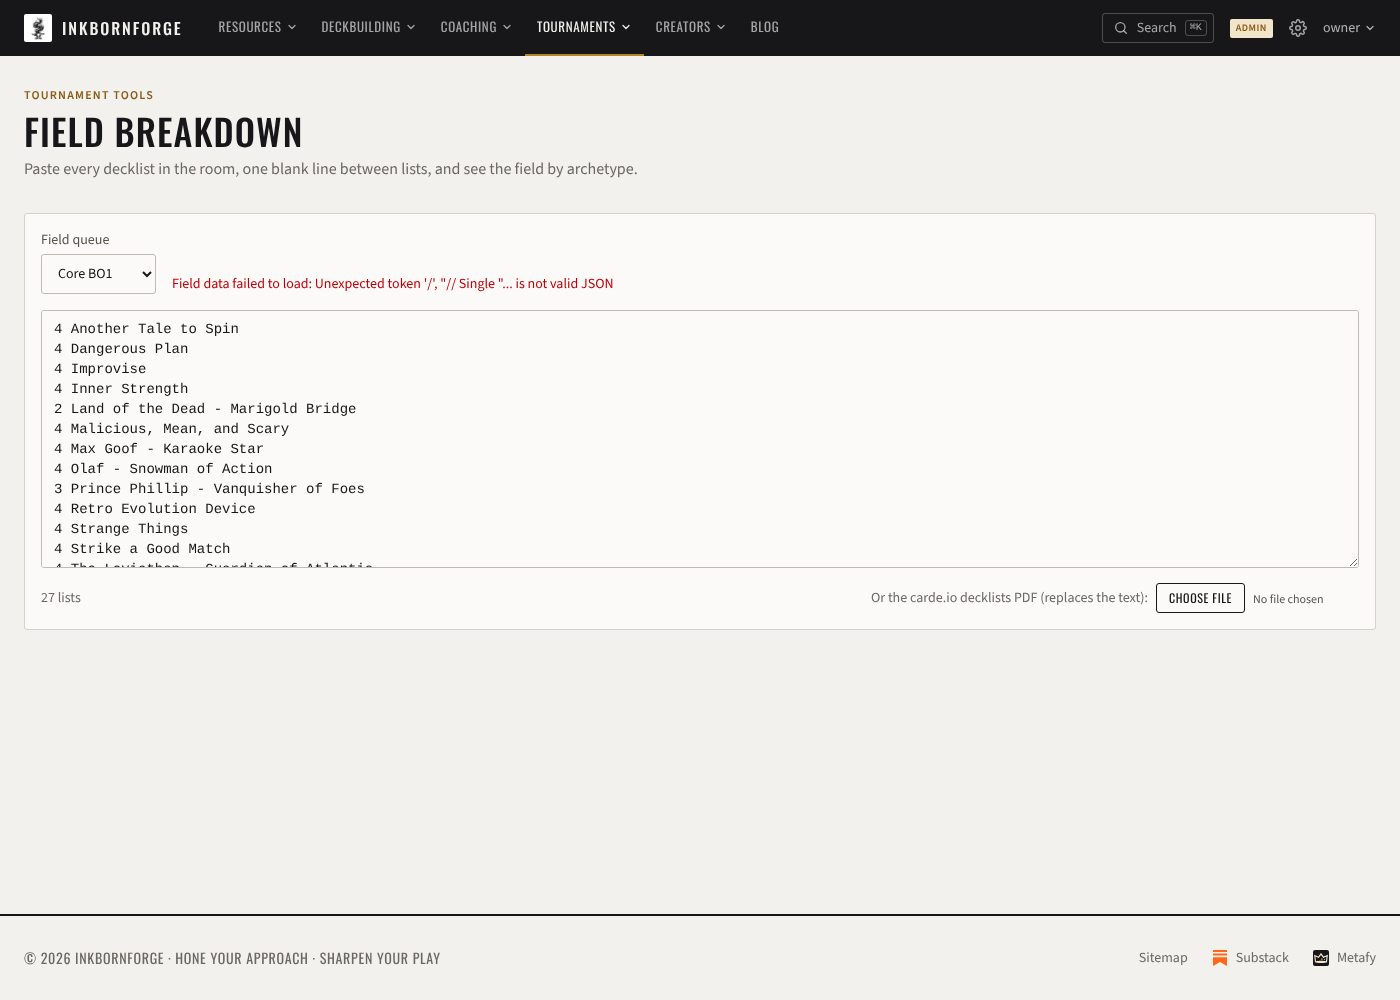
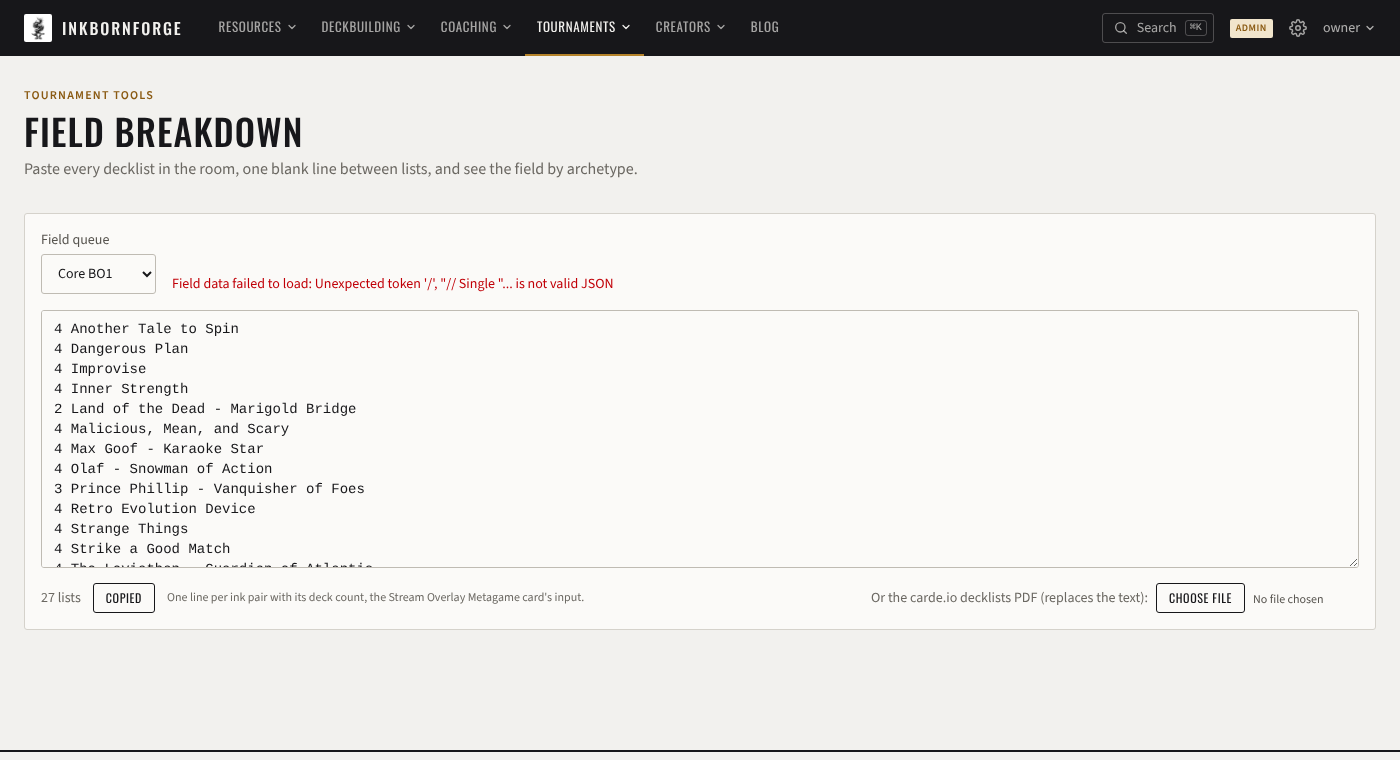
Field Breakdown's Copy for Stream Overlay copies the room by ink pair
The Metagame card groups by ink pair, so the archetype lines the button
copied only ever got reduced to their inks, and a deck no archetype
matched came out as "Unassigned" and lost its inks. It now copies
inkPairLines(), the same lines the Metagame card's PDF upload writes, and
needs only the card database, so it works before (or without) the
duels.ink field data.

Claude-Session: https://claude.ai/code/session_01PuhSUkhQdqWYCWVwuEZRoD

diff --git a/src/pages/FieldBreakdownPage.jsx b/src/pages/FieldBreakdownPage.jsx
@@ -2,7 +2,7 @@ import { useEffect, useMemo, useState } from 'react'
 import { fetchStats } from '../lib/duelsApi'
 import { useCards } from '../hooks/useCards'
 import { buildCardIndex } from '../lib/cardAnalysis'
-import { splitDeckLists, classifyField } from '../lib/fieldBreakdown'
+import { splitDeckLists, classifyField, inkPairLines } from '../lib/fieldBreakdown'
 import { readDecklistsPdf } from '../lib/cardePdf'
 import { PageHeader } from '../components/ui/PageHeader'
 import { Card } from '../components/ui/Card'
@@ -48,6 +48,7 @@ export function FieldBreakdownPage() {
     [stats, cards, cardIndex, lists],
   )
   const total = result?.decks.length ?? 0
+  const inkLines = useMemo(() => (cards?.length ? inkPairLines(lists, cardIndex) : []), [cards, cardIndex, lists])
   const [copied, setCopied] = useState(false)
   const [pdfError, setPdfError] = useState(null)
   async function importPdf(e) {
@@ -58,7 +59,7 @@ export function FieldBreakdownPage() {
   }
   async function copyForOverlay() {
     try {
-      await navigator.clipboard.writeText(result.field.map(r => `${r.archetype} ${r.count}`).join('\n'))
+      await navigator.clipboard.writeText(inkLines.join('\n'))
       setCopied(true)
       setTimeout(() => setCopied(false), 2000)
     } catch { /* clipboard unavailable */ }
@@ -92,7 +93,11 @@ export function FieldBreakdownPage() {
           placeholder={'4 Card Name\n4 Card Name\n\n4 Card Name\n…'}
         />
         <div className="mt-2 flex flex-wrap items-center justify-between gap-3 text-sm text-gray-500">
-          <span>{lists.length} list{lists.length === 1 ? '' : 's'}</span>
+          <span className="flex items-center gap-3">
+            {lists.length} list{lists.length === 1 ? '' : 's'}
+            <Button size="sm" disabled={!inkLines.length} onClick={copyForOverlay}>{copied ? 'Copied' : 'Copy for Stream Overlay'}</Button>
+            <span className="text-xs">One line per ink pair with its deck count, the Stream Overlay Metagame card's input.</span>
+          </span>
           <label className="flex items-center gap-2">
             <span>Or the carde.io decklists PDF (replaces the text):</span>
             <input type="file" accept="application/pdf" onChange={importPdf} className="text-xs text-gray-600 file:mr-2 file:rounded file:border file:border-gray-900 file:bg-transparent file:px-3 file:py-1.5 file:font-display file:uppercase file:tracking-wider file:text-xs file:text-gray-900" />
@@ -104,10 +109,6 @@ export function FieldBreakdownPage() {
       {result && (
         <div className="grid gap-6 lg:grid-cols-2">
           <Card title="The field" description={`${total} deck${total === 1 ? '' : 's'}`} className="p-4">
-            <div className="mb-3 flex items-center gap-3">
-              <Button size="sm" onClick={copyForOverlay}>{copied ? 'Copied' : 'Copy for Stream Overlay'}</Button>
-              <span className="text-xs text-gray-500">One archetype per line with its deck count, ready for the Stream Overlay's Metagame card.</span>
-            </div>
             <table className="w-full text-sm">
               <thead className="text-left text-xs uppercase tracking-wide text-gray-500">
                 <tr><th className="py-1">Archetype</th><th className="py-1">Inks</th><th className="py-1 text-right">Decks</th><th className="py-1 text-right">Share</th></tr>

diff --git a/CLAUDE.md b/CLAUDE.md
@@ -115,7 +115,7 @@ Defined in `src/App.jsx`:
 | `/forge-decks` | `ForgeDecksPage.jsx` | The Forge Decklists — the site's own recommended lists, in the same set folders as Stock Deck Lists (see "Stock Deck Lists" below). Public |
 | `/practice-plan` | `PracticePlanPage.jsx` | Pre-tournament prep — select deck + meta, highlight matchups needing practice |
 | `/deck-doctor` | `DeckDoctorPage.jsx` | Your list (from match history, or pasted) beside duels.ink's average build and card lift for its archetype, your own WAR, and your matchups vs the field's, ending in a short verdict (see "Deck Doctor" below) |
-| `/field-breakdown` | `FieldBreakdownPage.jsx` | Paste every decklist in a room (blank line between lists) → the field by archetype and each list's assignment, using Deck Doctor's `assignArchetype()` rule against duels.ink's profiles (`lib/fieldBreakdown.js`, unit-tested); "Copy for Stream Overlay" copies the field as the Stream Overlay's Metagame lines. Or upload carde.io's decklists PDF (the admin's "Download decklists" export, one deck per page): `lib/cardePdf.js` reads it in the browser with pdf.js (`pdfjs-dist`, legacy build, loaded on first use) and `decklistsFromPages()` (unit-tested) turns the pages into this input, rejoining a card name that wrapped and dropping the print header/footer. `scripts/carde-field-export.js` (the Stream Overlay panel's "Export carde.io decks" bookmarklet, or pasted into the DevTools console on an event's carde.io admin page) pulls every submitted decklist with the organizer's own session (Play Hub's public API carries no decks), copies the room's ink-pair lines for the Metagame card, and leaves the full lists in this page's input format in `cardeField.fieldText`. Textarea and queue persist in localStorage (`lorcana_field_breakdown`) |
+| `/field-breakdown` | `FieldBreakdownPage.jsx` | Paste every decklist in a room (blank line between lists) → the field by archetype and each list's assignment, using Deck Doctor's `assignArchetype()` rule against duels.ink's profiles (`lib/fieldBreakdown.js`, unit-tested); "Copy for Stream Overlay" copies the room by ink pair (`inkPairLines()`: each deck's two most-played inks, counted, as `Emerald/Steel 8` lines), which needs only the card database, not the archetype assignment. Or upload carde.io's decklists PDF (the admin's "Download decklists" export, one deck per page): `lib/cardePdf.js` reads it in the browser with pdf.js (`pdfjs-dist`, legacy build, loaded on first use) and `decklistsFromPages()` (unit-tested) turns the pages into this input, rejoining a card name that wrapped and dropping the print header/footer. `scripts/carde-field-export.js` (the Stream Overlay panel's "Export carde.io decks" bookmarklet, or pasted into the DevTools console on an event's carde.io admin page) pulls every submitted decklist with the organizer's own session (Play Hub's public API carries no decks), copies the room's ink-pair lines for the Metagame card, and leaves the full lists in this page's input format in `cardeField.fieldText`. Textarea and queue persist in localStorage (`lorcana_field_breakdown`) |
 | `/tournament-lookup` | `TournamentLookupPage.jsx` | Ravensburger live standings — paste event URL, find yourself, check tiebreakers, ID analysis; clicking a pairing in the Matches tab opens cross-event history + head-to-head from the Tournament History archive (see below) |
 | `/results` | `ResultsPage.jsx` | Public Tournament Results — every imported archive event (newest first, events under 32 players hidden behind a toggle) with a player-name search. See "Tournament History Archive" |
 | `/results/events/:eventId` | `ResultsEventPage.jsx` | One archived event (`rph_event_id`): final standings (all rows, name filter) and the top-cut bracket via `EliminationBracket` |
